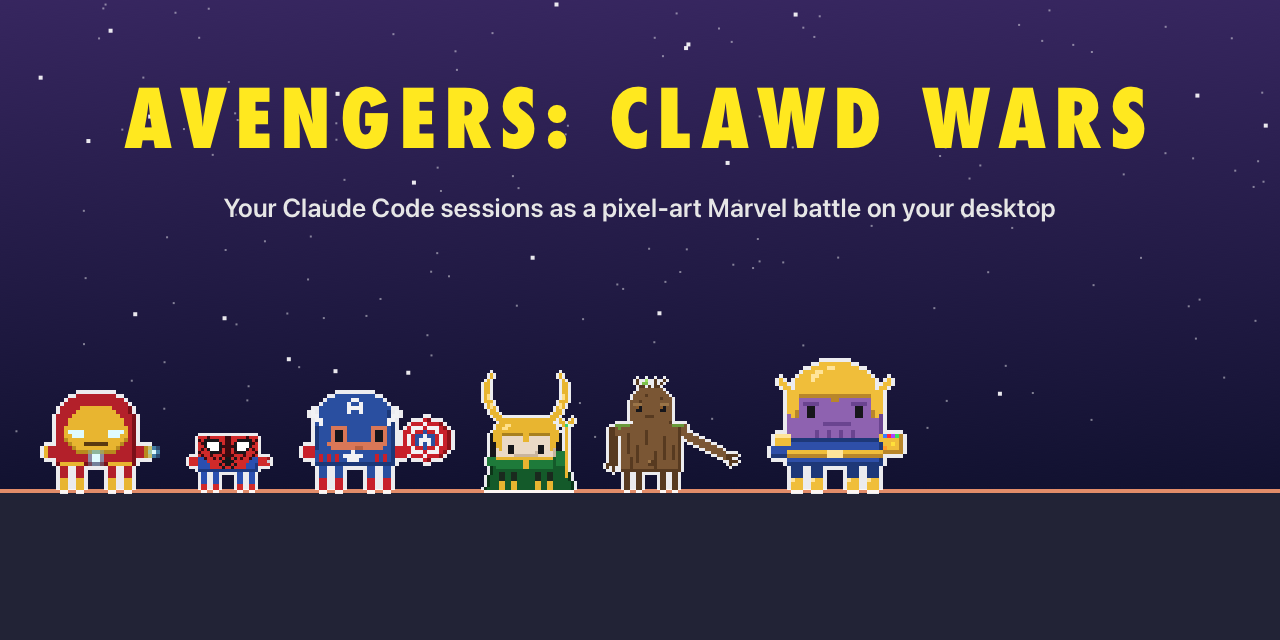
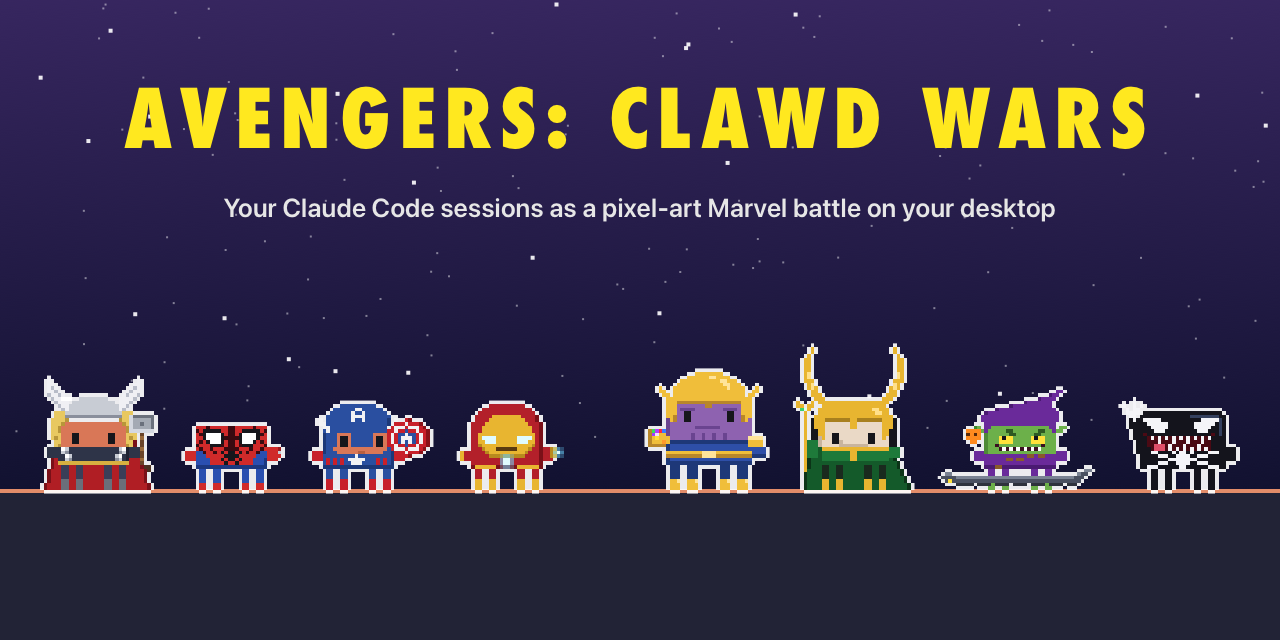
docs: call it Clawd Wars' sister app, and centre the social preview
Avengers: Clawd Wars isn't described as a fork any more: README,
changelog, llms.txt and the GitHub description call it the sister app of
Clawd Wars. The social preview was lopsided (the crew started at the
left edge and ran off the right); RenderDocs now lines up four heroes
facing four villains, centred, and scales them down if they'd ever get
too wide.

Changed region(s): [[0.0312, 0.5312, 0.9688, 0.7812]]

diff --git a/Tools/RenderDocs/main.swift b/Tools/RenderDocs/main.swift
@@ -116,24 +116,32 @@ let social = canvas(1280, 640) { ctx in
                                  attributes: [.font: NSFont.systemFont(ofSize: 26, weight: .semibold), .foregroundColor: NSColor(white: 0.9, alpha: 1)])
     sub.draw(at: NSPoint(x: (1280 - sub.size().width) / 2, y: 418))
     // the crew, standing on the horizon
-    let crew: [(PixelCanvas) -> Void] = [
-        { Cast.hero(.ironMan).draw($0, t: 0.3, mode: .working, walking: false, role: .shoot(offset: 0), asSession: true) },
-        { Cast.hero(.spiderMan).draw($0, t: 0.2, mode: .working, walking: false, role: .none, asSession: false) },
-        { Cast.hero(.captainAmerica).draw($0, t: 0.62, mode: .working, walking: false, role: .duel, asSession: true) },
-        { Cast.villain(.loki).draw($0, t: 0.62, mode: .working, walking: false, role: .zap, asSession: true) },
-        { Cast.hero(.groot).draw($0, t: 0.9, mode: .working, walking: false, role: .none, asSession: false) },
-        { Cast.villain(.thanos).draw($0, t: 0.1, mode: .idle, walking: false, role: .none, asSession: true) },
-    ]
-    let scales: [CGFloat] = [4, 3, 4, 3, 3, 4]
-    var x: CGFloat = 40
-    for (i, draw) in crew.enumerated() {
+    // Heroes on the left facing right, villains on the right facing them, the whole line centred.
+    // Waiting poses: weapons held up, nothing streaming off across the picture.
+    func pose(_ who: Cast) -> (PixelCanvas) -> Void {
+        { who.draw($0, t: 0.3, mode: .waiting, walking: false, role: .none, asSession: true) }
+    }
+    let heroes = [Cast.hero(.thor), .hero(.spiderMan), .hero(.captainAmerica), .hero(.ironMan)].map(pose)
+    let villains = [Cast.villain(.thanos), .villain(.loki), .villain(.greenGoblin), .villain(.venom)].map(pose)
+    var s: CGFloat = 4, gap: CGFloat = 26, middle: CGFloat = 90
+    var sprites: [(img: CGImage, w: CGFloat, h: CGFloat, bottomGap: CGFloat)] = []
+    for (i, draw) in (heroes + villains).enumerated() {
         let c = PixelCanvas(Sprite.width, Sprite.height); draw(c)
+        if i >= heroes.count { c.flipHorizontally() }
         c.addOutline(C(0xFFFFFF, 0.92))
         guard let b = c.opaqueBounds(), let img = c.makeImage()?.cropping(to: b) else { continue }
-        let s = scales[i], w = b.width * s
-        let bottomGap = CGFloat(Sprite.height) - b.maxY
-        ctx.draw(img, in: CGRect(x: x, y: 150 + (bottomGap - 8) * s, width: w, height: b.height * s))
-        x += w + 26
+        sprites.append((img, b.width * s, b.height * s, CGFloat(Sprite.height) - b.maxY))
+    }
+    var total = sprites.reduce(0) { $0 + $1.w } + gap * CGFloat(sprites.count - 2) + middle
+    if total > 1200 {                       // too wide: shrink everyone (and the spacing) to fit with margins
+        let k = 1200 / total
+        s *= k; gap *= k; middle *= k; total = 1200
+        sprites = sprites.map { ($0.img, $0.w * k, $0.h * k, $0.bottomGap) }
+    }
+    var x = (1280 - total) / 2
+    for (i, sp) in sprites.enumerated() {
+        ctx.draw(sp.img, in: CGRect(x: x, y: 150 + (sp.bottomGap - 8) * s, width: sp.w, height: sp.h))
+        x += sp.w + (i == heroes.count - 1 ? middle : gap)
     }
 }
 save(social, "social-preview.png")

diff --git a/CHANGELOG.md b/CHANGELOG.md
@@ -1,6 +1,6 @@
 # Changelog
 
-Avengers: Clawd Wars is a fork of [Clawd Wars](https://github.com/rodclemen/clawd-wars) 2.28.1. Its history up to the fork is in [CHANGELOG-clawd-wars.md](CHANGELOG-clawd-wars.md).
+Avengers: Clawd Wars is the sister app of [Clawd Wars](https://github.com/rodclemen/clawd-wars), and grew out of Clawd Wars 2.28.1. Their shared history up to then is in [CHANGELOG-clawd-wars.md](CHANGELOG-clawd-wars.md).
 
 ## 0.1.0 (unreleased)
 
@@ -50,6 +50,6 @@ Avengers: Clawd Wars is a fork of [Clawd Wars](https://github.com/rodclemen/claw
 - **Flyers take to the air now and then**: every half minute or so a flyer takes off where it stands, hangs in the air for a few seconds and lands; in a fight, ranged and magic flyers go up every few seconds and keep shooting or casting from up there, with the shots and streams following them. Melee flyers stay down to duel. In the overlay, the window and the screen saver.
 
 ### Fixed (from Clawd Wars)
-- **"Needs you" waits as long as it takes**: a session waiting for your answer no longer gives up after 15 minutes and falls asleep; it keeps its "!" until you answer, and goes idle at once if you press Esc (read from the session's transcript). Ported from a Clawd Wars fix made after the fork.
+- **"Needs you" waits as long as it takes**: a session waiting for your answer no longer gives up after 15 minutes and falls asleep; it keeps its "!" until you answer, and goes idle at once if you press Esc (read from the session's transcript). Brought over from a fix in Clawd Wars.
 
 Eleven artists drew ninety-two Clawds in an afternoon, and all of them argued about whose hammer was coolest.

diff --git a/README.md b/README.md
@@ -21,7 +21,7 @@
   <img src="docs/social-preview.png" alt="Iron Man, Spider-Man, Captain America, Loki, Groot and Thanos" width="760">
 </p>
 
-A fork of [Clawd Wars](https://github.com/rodclemen/clawd-wars), the Star Wars original: same app, same engine, a different universe.
+The sister app of [Clawd Wars](https://github.com/rodclemen/clawd-wars), the Star Wars one: same engine, same habits, a different universe.
 
 ---
 
